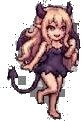
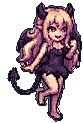
夥伴角色強化（2/12）：魅魔，配色跟九尾狐分開
- tools/pixel_polish.py 新增兩個選項：
  - holes：被翅膀、魔力圈包在裡面的大片背景棋盤格挖成透明（只給本身沒有灰色部位的角色用）
  - hue：把某段色相整段轉色，例如粉紅轉深紫，金髮和膚色不在範圍內就不動
- 魅魔：粉紅色調轉成深紫、整體暗一點、對比拉高，跟九尾狐的粉白紅金明顯分開；清掉第 4、5 階段夾在裡面的灰色棋盤格
- 夥伴特效：魅魔第 3 階段起有紫色光暈＋繞圈的像素蝙蝠（會拍翅膀）；環繞小物的光暈顏色改成跟著種族走
- sw.js 快取版本 v25

Claude-Session: https://claude.ai/code/session_016wQJDqNmeMZi3CzSXZ7hYD

diff --git a/web/style.css b/web/style.css
@@ -779,7 +779,9 @@ ol.steps { margin: 0; padding-left: 1.4em; font-size: .9375rem; line-height: 1.7
 .pet-orbit { position: absolute; left: 50%; top: 44%; width: 0; height: 0; pointer-events: none; }
 .pet-orbit i { position: absolute; left: 0; top: 0; z-index: 2; translate: 0 0; }
 .pet-orbit i b { display: block; transform: translate(-50%, -50%); }
-.pet-orbit svg { display: block; width: 18px; height: auto; filter: drop-shadow(0 0 4px rgba(255, 120, 210, .9)); }
+.pet-orbit svg { display: block; width: 18px; height: auto; filter: drop-shadow(0 0 4px rgba(var(--aura), .9)); }
+.pet-orbit svg.orb-bat { width: 24px; }
+.pet.s4 .pet-orbit svg.orb-bat { width: 28px; }
 .pet.s4 .pet-orbit svg { width: 22px; }
 .evo-pic { position: relative; display: grid; place-items: center; }
 .evo-pic img { position: relative; z-index: 1; }
@@ -793,6 +795,8 @@ ol.steps { margin: 0; padding-left: 1.4em; font-size: .9375rem; line-height: 1.7
   .pet-orbit i { animation: orbit-xy 9s steps(48) infinite; animation-delay: calc(-9s * var(--k) / var(--n)); }
   .pet-orbit.fast i { animation-duration: 6.5s; animation-delay: calc(-6.5s * var(--k) / var(--n)); }
   .pet-orbit i b { animation: flicker .5s steps(2) infinite; }
+  .pet-orbit svg.orb-bat { animation: flap .32s steps(2) infinite; }
+  @keyframes flap { 50% { transform: scaleY(.55); } }
   @keyframes orbit-xy { 0.0% { translate: 112px 0px; z-index: 2; scale: 1.00; } 8.33% { translate: 97px 20px; z-index: 2; scale: 1.09; } 16.67% { translate: 56px 35px; z-index: 2; scale: 1.16; } 25.0% { translate: 0px 40px; z-index: 2; scale: 1.18; } 33.33% { translate: -56px 35px; z-index: 2; scale: 1.16; } 41.67% { translate: -97px 20px; z-index: 2; scale: 1.09; } 50.0% { translate: -112px 0px; z-index: 2; scale: 1.00; } 58.33% { translate: -97px -20px; z-index: 0; scale: 0.91; } 66.67% { translate: -56px -35px; z-index: 0; scale: 0.84; } 75.0% { translate: -0px -40px; z-index: 0; scale: 0.82; } 83.33% { translate: 56px -35px; z-index: 0; scale: 0.84; } 91.67% { translate: 97px -20px; z-index: 0; scale: 0.91; } 100.0% { translate: 112px -0px; z-index: 0; scale: 1.00; } }
   .evo-burst::before { animation: aura-breathe 1.6s ease-in-out 3; }
   .evo-burst i { animation: burst 1.4s cubic-bezier(.2, .8, .3, 1) calc(var(--k) * 40ms) 2 both; }

diff --git a/web/js/core.js b/web/js/core.js
@@ -170,15 +170,20 @@ const species = (id) => S.chars?.species.find((s) => s.id === id);
 // 之後其他種族照這個格式加：aura 是光暈的 RGB，orb 是環繞的像素小圖（顏色 3 個：外、中、心）
 const PET_FX = {
   fox_spirit: { from: 2, aura: "255,105,190", orb: "flame", colors: ["#C2369E", "#FF7AD0", "#FFE6F7"], spark: "#FFB8E6" },
+  succubus: { from: 2, aura: "150,70,230", orb: "bat", colors: ["#1E0B2E", "#6B35B8", "#FF4D7E"], spark: "#C79BFF" },
+};
+const ORB_GRID = {
+  flame: ["...1...", "..121..", "..121..", ".12221.", ".12321.", "1223321", "1233321", ".12321.", "..111.."],
+  bat: ["1.......1", "11.....11", "111.1.111", "111222111", ".1232321.", "..12221..", "...1.1..."],
 };
 
 // 像素火焰（7×9 格），用 SVG 的小方塊畫，放大也是銳利的像素
 function pixelOrb(kind, [c1, c2, c3]) {
-  const F = ["...1...", "..121..", "..121..", ".12221.", ".12321.", "1223321", "1233321", ".12321.", "..111.."];
+  const F = ORB_GRID[kind] || ORB_GRID.flame;
   const fill = { 1: c1, 2: c2, 3: c3 };
   let r = "";
   F.forEach((row, y) => [...row].forEach((ch, x) => { if (fill[ch]) r += `<rect x="${x}" y="${y}" width="1" height="1" fill="${fill[ch]}"/>`; }));
-  return `<svg viewBox="0 0 7 9" shape-rendering="crispEdges" aria-hidden="true">${r}</svg>`;
+  return `<svg viewBox="0 0 ${F[0].length} ${F.length}" class="orb-${kind}" shape-rendering="crispEdges" aria-hidden="true">${r}</svg>`;
 }
 
 function petFx(speciesId, stage) {
@@ -186,7 +191,7 @@ function petFx(speciesId, stage) {
   if (!fx || stage < fx.from) return "";
   const n = stage >= 4 ? 4 : stage >= 3 ? 3 : 2;
   return `<span class="pet-aura" style="--aura:${fx.aura}" aria-hidden="true"></span>
-    <span class="pet-orbit${stage >= 4 ? " fast" : ""}" aria-hidden="true">${Array.from({ length: n }, (_, i) =>
+    <span class="pet-orbit${stage >= 4 ? " fast" : ""}" style="--aura:${fx.aura}" aria-hidden="true">${Array.from({ length: n }, (_, i) =>
       `<i style="--k:${i};--n:${n}"><b>${pixelOrb(fx.orb, fx.colors)}</b></i>`).join("")}</span>`;
 }
 const petSpark = (speciesId) => PET_FX[speciesId]?.spark || "";

diff --git a/web/sw.js b/web/sw.js
@@ -1,5 +1,5 @@
 // 只快取 App 外殼，讓主畫面圖示在網路不穩時也打得開；API 一律走網路。
-const CACHE = "ic8-shell-v24";
+const CACHE = "ic8-shell-v25";
 const SHELL = ["/", "/style.css", "/js/core.js", "/js/summary.js", "/js/activity.js", "/js/analysis.js",
   "/js/me.js", "/js/brief.js", "/js/apple.js", "/js/strength.js", "/js/learn.js", "/js/runner.js", "/js/share.js", "/js/main.js", "/manifest.webmanifest", "/characters/manifest.json", "/icons/apple-touch-icon.png"];
 

diff --git a/tools/pixel_polish.py b/tools/pixel_polish.py
@@ -22,11 +22,39 @@ def peel_grey(a, mask, passes=8):
     return mask
 
 
-def polish(path, colors=96, sat=1.12, contrast=1.06):
+def drop_grey_holes(a, mask, min_size=10):
+    """被翅膀、魔力圈包在裡面的大片中性灰（原背景的棋盤格）挖成透明。只給本身沒有灰色部位的角色用。"""
+    rgb = a[..., :3].astype(int)
+    spread = rgb.max(-1) - rgb.min(-1)
+    val = rgb.max(-1)
+    grey = mask & (spread < 22) & (val > 150) & (val < 225)
+    lab, n = ndimage.label(grey, structure=np.ones((3, 3)))
+    if n:
+        sizes = ndimage.sum(grey, lab, range(1, n + 1))
+        for i, sz in enumerate(sizes, 1):
+            if sz >= min_size:
+                mask = mask & ~(lab == i)
+    return mask
+
+
+def shift_hue(img, lo, hi, by, darken=1.0, min_sat=40):
+    """把某段色相（0–360 度）整段轉到別的顏色，例如粉紅轉成紫紅；金髮、膚色不在範圍內就不動。"""
+    hsv = np.array(img.convert("HSV")).astype(int)
+    h = hsv[..., 0] * 360 // 256
+    sel = ((h >= lo) | (h < hi)) if lo > hi else ((h >= lo) & (h < hi))
+    sel &= hsv[..., 1] >= min_sat
+    hsv[..., 0] = np.where(sel, ((h + by) % 360) * 256 // 360, hsv[..., 0])
+    hsv[..., 2] = np.where(sel, (hsv[..., 2] * darken).clip(0, 255), hsv[..., 2])
+    return Image.fromarray(hsv.astype(np.uint8), "HSV").convert("RGB")
+
+
+def polish(path, colors=96, sat=1.12, contrast=1.06, holes=False, hue=None):
     im = Image.open(path).convert("RGBA")
     a = np.array(im)
     mask = a[..., 3] > 0
     mask = peel_grey(a, mask)
+    if holes:
+        mask = drop_grey_holes(a, mask)
     lab, n = ndimage.label(mask)
     if n:
         sizes = ndimage.sum(mask, lab, range(1, n + 1))
@@ -42,6 +70,8 @@ def polish(path, colors=96, sat=1.12, contrast=1.06):
             body |= lab == i
     img = Image.fromarray(a[..., :3], "RGB").filter(ImageFilter.UnsharpMask(radius=1.0, percent=60, threshold=2))
     img = ImageEnhance.Contrast(ImageEnhance.Color(img).enhance(sat)).enhance(contrast)
+    for hs in hue or []:
+        img = shift_hue(img, *hs)
     arr = np.array(img)
     fill = arr[mask]
     arr[~mask] = np.median(fill, axis=0).astype(np.uint8) if len(fill) else 0
@@ -60,6 +90,8 @@ def polish(path, colors=96, sat=1.12, contrast=1.06):
 # 每個種族可以個別調整：sat 彩度、contrast 對比、colors 顏色數
 TUNE = {
     "fox_spirit": {"sat": 1.25, "contrast": 1.08},   # 和服的紅、紫、金更華麗
+    # 魅魔：跟九尾狐的粉紅分開 → 粉紅轉成深紫紅、整體暗一點；翅膀和魔力圈裡夾著背景棋盤格
+    "succubus": {"sat": 1.2, "contrast": 1.12, "holes": True, "hue": [(296, 8, -30, 0.84)]},
 }
 
 
